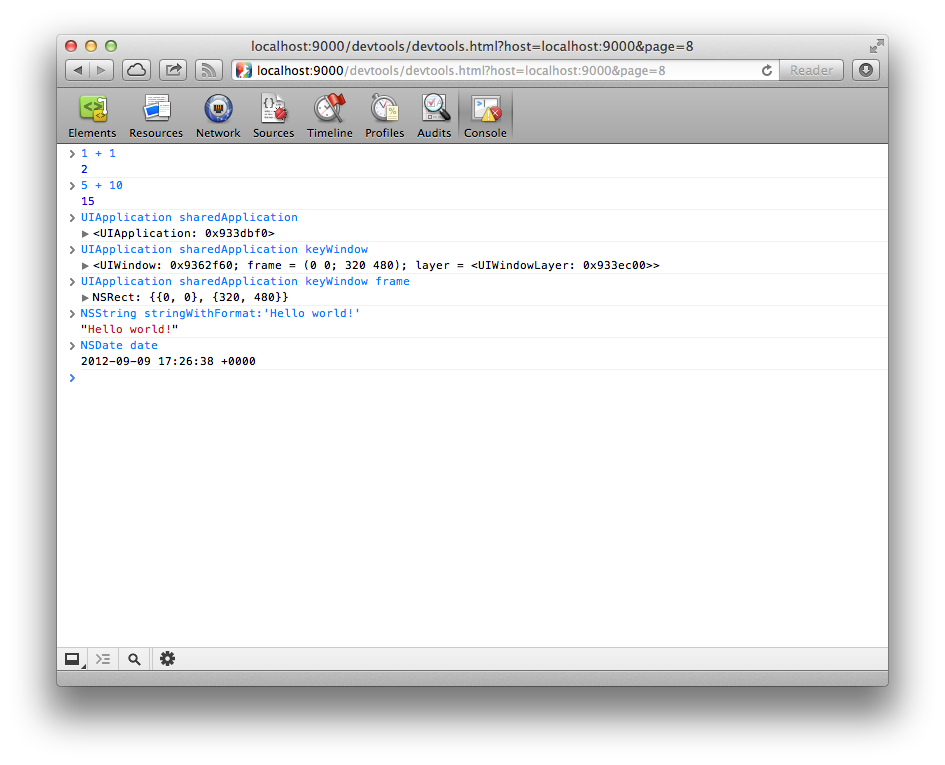
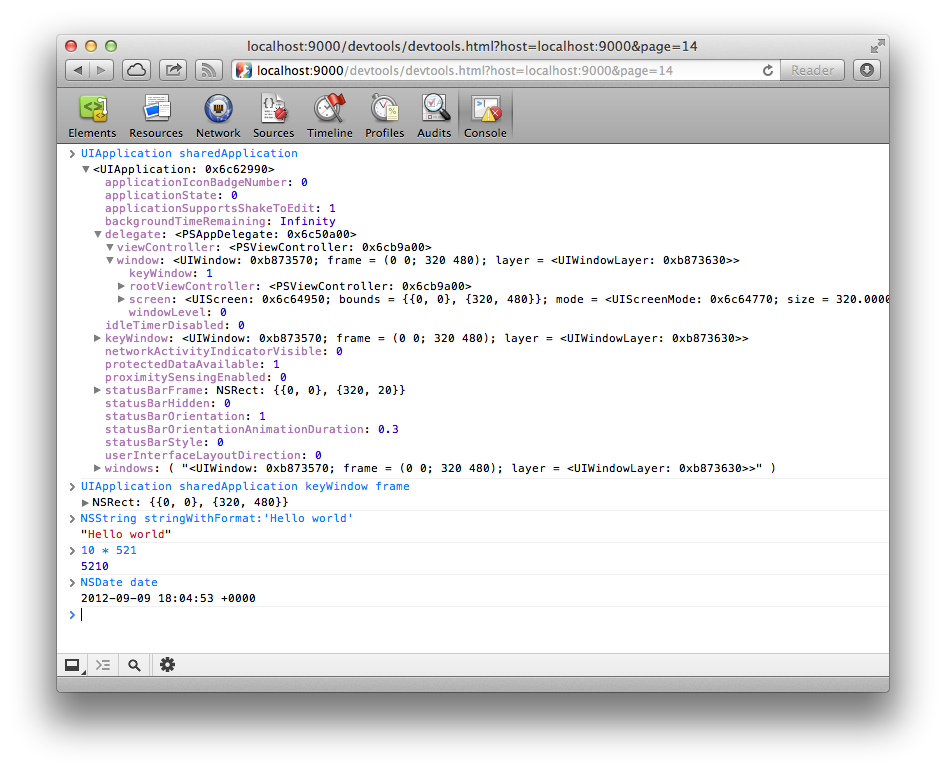
Crude property lookup implementation.

Changed region(s): [[0.0614, 0.0301, 0.9206, 0.7817], [0.0614, 0.8418, 0.9513, 0.902], [0.8899, 0.3608, 0.9513, 0.3908]]

diff --git a/ObjC/PonyDebugger/PDFScriptRuntimeDomainController.m b/ObjC/PonyDebugger/PDFScriptRuntimeDomainController.m
@@ -16,6 +16,7 @@
 #import "PDRuntimeTypes.h"
 
 #import <FScript/FSInterpreter.h>
+#import <objc/runtime.h>
 
 @interface PDFScriptRuntimeDomainController () {
   FSInterpreter *_interpreter;
@@ -57,6 +58,32 @@
 }
 
 
+- (PDRuntimeRemoteObject *) runtimeRemoteObjectForObject:(id)object {
+  PDRuntimeRemoteObject *result = [[PDRuntimeRemoteObject alloc] init];
+  if ([object isKindOfClass:[NSNumber class]] == YES) {
+    result.type = @"number";
+    result.value = object;
+  }
+  else if ([object isKindOfClass:[NSString class]] == YES) {
+    result.type = @"string";
+    result.value = object;
+  }
+  else {
+    result.type = @"object";
+    if ([object isKindOfClass:[NSArray class]] == YES) {
+      result.subtype = @"array";
+    }
+    else if ([object isKindOfClass:[NSDate class]] == YES) {
+      result.subtype = @"date";
+    }
+    
+    result.classNameString = NSStringFromClass([object class]);
+    result.objectDescription = [object description];
+    result.objectId = [NSString stringWithFormat:@"%p", object];
+  }
+  return result;
+}
+
 #pragma mark - PDRuntimeCommandDelegate
 
 // Evaluates expression on global object.
@@ -87,7 +114,7 @@ doNotPauseOnExceptionsAndMuteConsole:(NSNumber *)doNotPauseOnExceptionsAndMuteCo
   NSLog(@"returnByValue=%@", returnByValue);
   NSLog(@"callback=%@", callback);
 
-  PDRuntimeRemoteObject *result = [[PDRuntimeRemoteObject alloc] init];
+  PDRuntimeRemoteObject *result = nil;
   id error = nil;
   BOOL wasThrown = NO;
   if ([objectGroup isEqualToString:@"console"] == YES) {
@@ -110,27 +137,7 @@ doNotPauseOnExceptionsAndMuteConsole:(NSNumber *)doNotPauseOnExceptionsAndMuteCo
       }
       else {
         id object = [fscriptResult result];
-        if ([object isKindOfClass:[NSNumber class]] == YES) {
-          result.type = @"number";
-          result.value = object;
-        }
-        else if ([object isKindOfClass:[NSString class]] == YES) {
-          result.type = @"string";
-          result.value = object;
-        }
-        else {
-          result.type = @"object";
-          if ([object isKindOfClass:[NSArray class]] == YES) {
-            result.subtype = @"array";
-          }
-          else if ([object isKindOfClass:[NSDate class]] == YES) {
-            result.subtype = @"date";
-          }
-
-          result.classNameString = NSStringFromClass([object class]);
-          result.objectDescription = [object description];
-          result.objectId = [NSString stringWithFormat:@"%p", object];
-        }
+        result = [self runtimeRemoteObjectForObject:object];
       }
     }
   }
@@ -179,7 +186,42 @@ getPropertiesWithObjectId:(NSString *)objectId
   NSLog(@"objectId=%@", objectId);
   NSLog(@"ownProperties=%@", ownProperties);
   NSLog(@"callback=%@", callback);
-  callback([NSArray array], nil);
+  NSScanner *scanner = [NSScanner scannerWithString:objectId];
+  unsigned int address;
+  [scanner scanHexInt:&address];
+  void *object = (void *)address;
+
+  NSMutableArray *results = [NSMutableArray array];
+
+  unsigned int i, count = 0;
+	objc_property_t * properties = class_copyPropertyList( object_getClass((__bridge id)object), &count );
+	
+	if ( count > 0) {
+    for ( i = 0; i < count; i++ ) {
+      PDRuntimePropertyDescriptor *descriptor = [[PDRuntimePropertyDescriptor alloc] init];
+
+      // Property name.
+      descriptor.name = [NSString stringWithUTF8String: property_getName(properties[i])];
+      // The value associated with the property.
+      descriptor.value = [self runtimeRemoteObjectForObject:[(__bridge id)object valueForKeyPath:descriptor.name]];
+      // True if the value associated with the property may be changed (data descriptors only).
+      descriptor.writable = [NSNumber numberWithBool:NO];
+      // A function which serves as a getter for the property, or <code>undefined</code> if there is no getter (accessor descriptors only).
+      //descriptor.get;
+      // A function which serves as a setter for the property, or <code>undefined</code> if there is no setter (accessor descriptors only).
+      //descriptor.set;
+      // True if the type of this property descriptor may be changed and if the property may be deleted from the corresponding object.
+      descriptor.configurable = [NSNumber numberWithBool:NO];
+      // True if this property shows up during enumeration of the properties on the corresponding object.
+      descriptor.enumerable = [NSNumber numberWithBool:NO];
+      // True if the result was thrown during the evaluation.
+      descriptor.wasThrown = NO;
+      [results addObject:descriptor];
+    }
+	}
+  free(properties);
+  
+  callback(results, nil);
 }
 
 // Releases remote object with given id.
